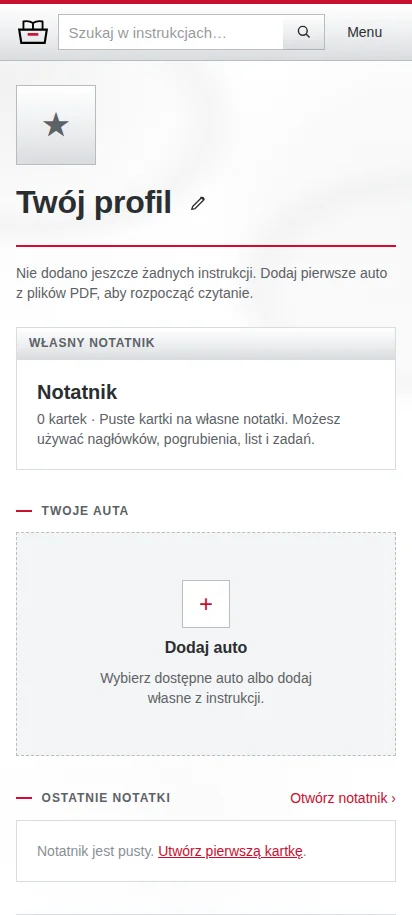
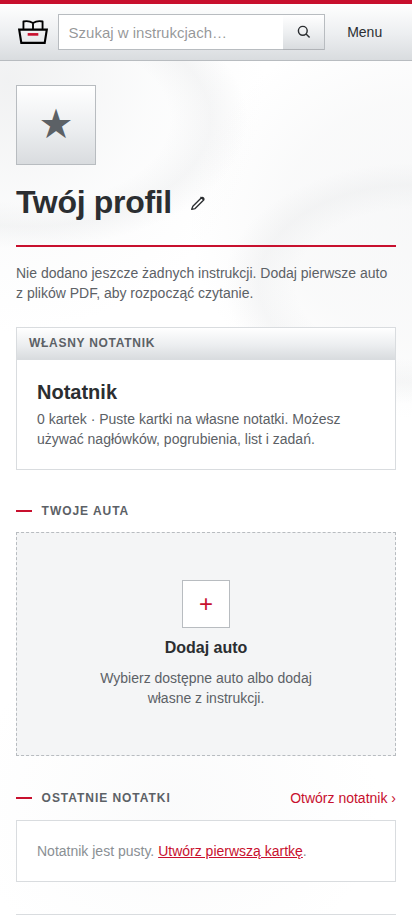
Fix mobile panel sizing, search focus and footer styling

diff --git a/src/app/globals.css b/src/app/globals.css
@@ -141,7 +141,7 @@ body {
 }
 
 .app-footer {
-  padding-block: 1.25rem calc(1.25rem + env(safe-area-inset-bottom, 0px));
+  padding-block: 0.75rem calc(1.25rem + env(safe-area-inset-bottom, 0px));
 }
 .app-footer > .app-frame {
   padding-inline: max(var(--gutter), env(safe-area-inset-left, 0px))
@@ -155,6 +155,14 @@ body {
 :focus-visible {
   outline: 2px solid var(--color-red);
   outline-offset: 1px;
+}
+
+.header-search:focus-within {
+  outline: 2px solid var(--color-red);
+  outline-offset: 1px;
+}
+.header-search :focus-visible {
+  outline: none;
 }
 
 /* Soft colour fades on every link and button hover (utilities may override). */
@@ -353,9 +361,6 @@ body {
   }
   .header-search .header-search-button {
     border: 0;
-  }
-  .header-search .header-search-button:focus-visible {
-    outline: none;
   }
   select.field {
     appearance: none;
@@ -659,6 +664,7 @@ body {
   .page-shell {
     width: 100%;
     max-width: 72rem;
+    min-width: 0;
     flex: 1;
     margin-inline: auto;
     padding: 1.5rem var(--gutter) 2rem;
@@ -1208,6 +1214,7 @@ body {
   }
 
   .panel {
+    min-width: 0;
     border: 1px solid var(--color-line);
     background: var(--color-white);
   }

diff --git a/src/components/Footer.tsx b/src/components/Footer.tsx
@@ -5,12 +5,12 @@ import { ProjectLinks } from "./ProjectLinks";
 export function Footer() {
   return (
     <footer className="app-footer mt-auto border-t border-line bg-paper print:hidden">
-      <div className="app-frame space-y-4">
+      <div className="app-frame space-y-3">
         <div className="flex justify-end">
           <ProjectLinks />
         </div>
         <div className="flex flex-wrap items-center justify-between gap-x-8 gap-y-3 border-t border-line pt-3 text-xs leading-relaxed text-graphite">
-          <p className="min-w-0 flex-[1_1_32rem]">
+          <p className="min-w-0 flex-[1_1_32rem] text-[0.6875rem]">
             Możesz używać, modyfikować i rozpowszechniać projekt zgodnie z
             warunkami licencji{" "}
             <a
@@ -46,7 +46,7 @@ export function Footer() {
               height={15}
               alt=""
               unoptimized
-              className="shrink-0 opacity-60 grayscale"
+              className="shrink-0 opacity-60 brightness-0"
             />
           </p>
         </div>

diff --git a/src/components/ProfileView.tsx b/src/components/ProfileView.tsx
@@ -130,7 +130,7 @@ export function ProfileView({
 
       <section
         aria-label="Co chcesz zrobić?"
-        className="mt-6 grid gap-4 md:grid-cols-2"
+        className="mt-6 grid grid-cols-1 gap-4 md:grid-cols-2"
       >
         {hasManuals && (
           <a href="#auta" className="panel hover-tile group block">
@@ -194,7 +194,7 @@ export function ProfileView({
         </div>
         {!hydrated && noteCount > 0 ? (
           <ul
-            className="grid gap-4 md:grid-cols-3"
+            className="grid grid-cols-1 gap-4 md:grid-cols-3"
             aria-busy="true"
             aria-label="Wczytywanie notatek"
           >
@@ -226,7 +226,7 @@ export function ProfileView({
             .
           </div>
         ) : (
-          <ul className="grid gap-4 md:grid-cols-3">
+          <ul className="grid grid-cols-1 gap-4 md:grid-cols-3">
             {pages.map((p) => (
               <li key={p.id} className="panel flex flex-col">
                 <Link

diff --git a/src/lib/__tests__/manifest.test.ts b/src/lib/__tests__/manifest.test.ts
@@ -68,6 +68,10 @@ describe("web app manifest", () => {
       expect(dimensions(file(shot.src)), shot.src).toBe(shot.sizes);
   });
 
+  it("preserves the original resolution of the footer author mark", () => {
+    expect(dimensions(file("/author-mark.png"))).toBe("512x512");
+  });
+
   it("points shortcuts at existing pages", () => {
     for (const shortcut of app.shortcuts ?? [])
       expect(

diff --git a/src/components/CarPicker.tsx b/src/components/CarPicker.tsx
@@ -69,7 +69,7 @@ export function CarPicker({
           połączenia.
         </p>
       )}
-      <ul className="grid gap-4 sm:grid-cols-2 lg:grid-cols-3">
+      <ul className="grid grid-cols-1 gap-4 sm:grid-cols-2 lg:grid-cols-3">
         {readableCars.map((car) => {
           const isActive = car.id === active;
           const placeholder = car.books.every((b) => b.placeholder);

diff --git a/src/components/profile/RecentActivity.tsx b/src/components/profile/RecentActivity.tsx
@@ -46,7 +46,7 @@ export function RecentActivity({
   const span = single && !filler ? "md:col-span-2" : "";
 
   return (
-    <div className="grid gap-4 md:grid-cols-2">
+    <div className="grid grid-cols-1 gap-4 md:grid-cols-2">
       {readRows > 0 && (
         <section
           className={`panel ${span}`}

diff --git a/docs/ui.md b/docs/ui.md
@@ -33,7 +33,8 @@ Europe screens. Every screen should be self-explanatory, calm and consistent. Vi
      left edge (direct children other than `.reader-grid` stay 48rem).
 - Header: the brand / car logo starts exactly where the first navigation key starts
   (`.nav-link` has no left padding on the first item), and the clock ends exactly where the
-  top row's last action ends.
+  top row's last action ends. Search input and submit button share the hover border and
+  one outer focus outline on the form; neither child draws a separate focus outline.
 - Project links: `ProjectLinks` shares the BuyCoffee and project repository destinations
   from `src/lib/brand.ts` between compact icon buttons beside the header search and labelled
   footer buttons. Support uses the red button; source code uses silver. Both open a new
@@ -42,15 +43,22 @@ Europe screens. Every screen should be self-explanatory, calm and consistent. Vi
   the two-row structure inspired by Pielgrzym: right-aligned project actions above a divider,
   then the AGPL usage/source-sharing/warranty notice and author signature. Unlike Pielgrzym,
   it does not repeat the app name, logo or version and has no internal page navigation.
-  The signature uses the same local author mark
-  (`public/author-mark.png`, pre-cached by the service worker), rendered in greyscale.
-  The legal notice also explains local data and manual-content rights.
+  The signature uses the original 512×512 rocket from Pielgrzym's `images/icon-512x512.png`
+  (revision `75065bdef11352cb9596320e4324373a5221ff8c`), copied unchanged to
+  `public/author-mark.png` and pre-cached by the service worker. Zero brightness with reduced
+  opacity renders only its grey silhouette, preserving transparency without internal details.
+  The top row uses compact vertical spacing. The legal notice uses 11px text on phones and
+  larger screens and also explains local data and manual-content rights.
   Its rows wrap on narrow screens. Below 40rem project links appear only in the footer,
   never in the mobile menu; wider screens also use compact header icons.
 - `body` sets `overflow-wrap: anywhere`, so strings without spaces (file names, codes, long
   links) break inside boxes instead of overflowing them, and flex/grid items may shrink below
   their longest word. Tables use `break-word` and scroll sideways in their wrapper. `.btn` and
   `.badge` stay on one line; use `truncate` (with a `title`) for single-line names.
+- Panels and page shells have `min-width: 0`. Profile and car-picker grids explicitly use
+  one `minmax(0, 1fr)` column below their multi-column breakpoints, so truncated history,
+  reminder, car and notebook titles never widen the mobile layout. Do not mask overflow
+  on the document: constrain the grid tracks and let their content wrap or truncate.
 - `text-wrap: balance` on headings and `.panel-title`, `text-wrap: pretty` on paragraphs and
   list items; `hyphens: auto` (with `lang="pl"`) in manual text and notebook previews.
 - Fact grids do not leave permanent empty grey cells: three car metadata or technical-preview
